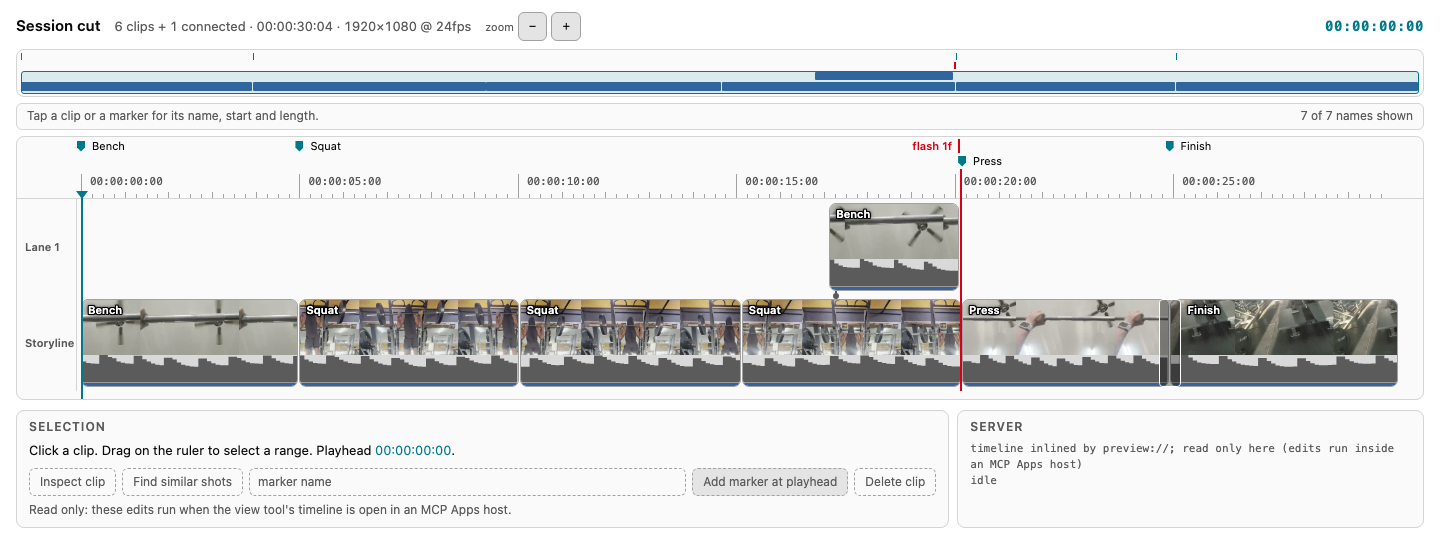
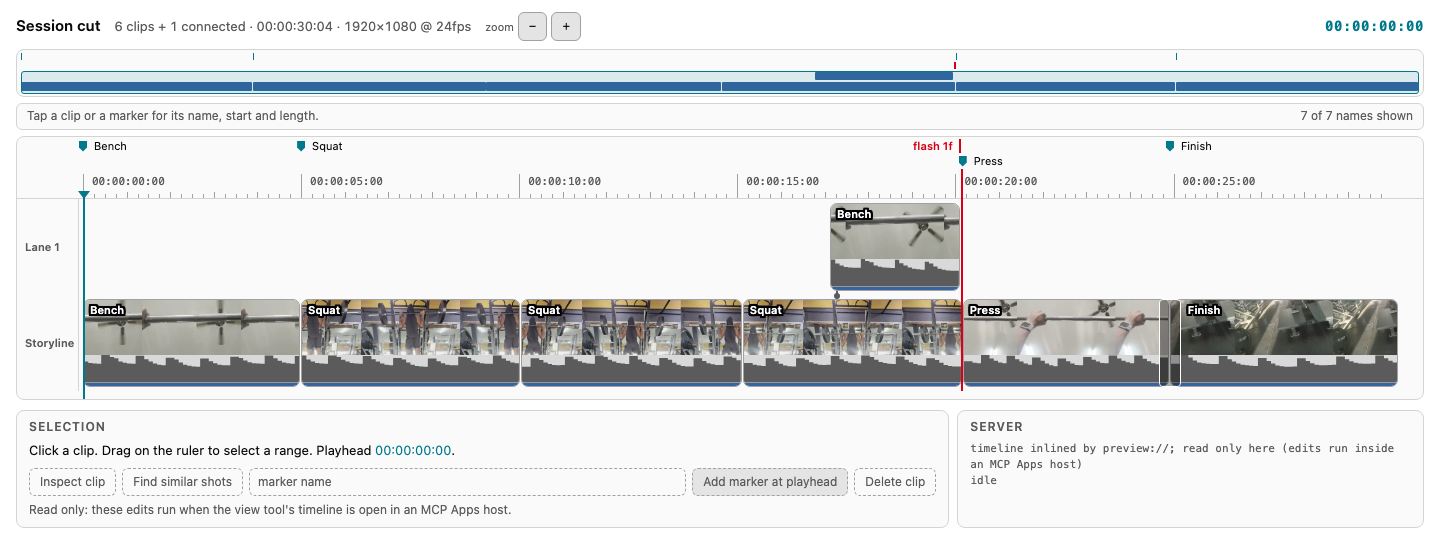
docs: 0.34 round 4, frames re-shot with the 2 px outline and the sized gutter; counts
Every frame and the README picture re-shot (byte-identical in the
gauntlet's copy); CHANGELOG's halo, gutter and median numbers, CLAUDE.md's
counts (3048 tests across 106 files) re-measured.

Claude-Session: https://claude.ai/code/session_01Majkfyw52xXpeyZZPHZGD2

diff --git a/CLAUDE.md b/CLAUDE.md
@@ -35,7 +35,7 @@ fcpxml/timeline_app.py — The MCP Apps timeline: a PURE payload builder (every
                       NO name rows, leaders or pills; countNames fills the
                       hint strip), markers named right of their glyph or in
                       a bracketed run (placeMarkers, split at a quarter of
-                      the view), lane tags in a 64 px gutter at >= 1000 px,
+                      the view), lane tags in a gutter (64 px, or its widest tag) at >= 1000 px,
                       stems ending in their dot on the storyline's edge
                       (drawConnections), z: conn -1 < flash 4 < trans 5 <
                       labels 7 < lane tags 8 < playhead 30 in an isolated
@@ -335,7 +335,7 @@ CI runs both on every push to main. If either fails, the commit gets an X on Git
 
 ## Testing
 
-3047 tests across 106 files (measured 2026-11-15 on v0.34.0 after the gatekeeper's round 4, Final Cut Pro 12.4 present: 3039 pass / 8 skip on mcp 2.3.0 and 3036 pass / 11 skip on mcp 1.28.1, both with Pillow and Playwright's Chromium and `FCP_MCP_REQUIRE_BROWSER=1`, ffmpeg 9.0.1; 2751 pass / 14 skip on ffmpeg 6.1.6 via `scripts/test-ffmpeg6.sh`, without Playwright, where `test_app_glance.py`, `test_readme_picture.py`, `test_app_labels.py`, `test_app_motion.py` and `test_hero_assets.py` skip as modules; with `FCP_MCP_INDEX=off` 3015 pass / 32 skip, the skips being tests OF the cache). v0.34.0 adds `test_app_glance.py` (69 test functions, replaces `test_app_directions.py`; CI's `rendered-labels` job runs it): the one look on the three fixtures (gym, music video with three markers on its gap, `demo/fixtures/interview.py`) at 1440/430/390: no visible name under 4 characters, none cut, no two texts overlapping, the median clip >= 44 px, the overview spanning the whole cut, no sideways page, cyan text only on the record time, the track area >= 35% of the page at 1440, clip heights by lane type, the middle ellipsis, the tap sheet, the snap, role stripes in Final Cut's colours, waveforms, the four marker glyphs, the flash, theme tokens for preview:// (OS) and for the app in a stand-in host (host theme, OS, change notification), the payload drawn from `structuredContent`; and (round 2) every ruler time 2 px clear of every tick, every visible marker glyph with its whole name, no band of one flat colour across a picture clip's body; and (round 3) the whole cut at open, names on rows for 80% of wide storyline clips, lanes that collapse, nothing painted inside a text box (hit-tested, taps included), no name across the flash line, Final Cut transitions and titles, connected clips 6 px or wider, the overview's contrast and glyphs, the header whole, markers named or clustered with the file's count, the waveform in its own band, the tap strip above the ruler; and (round 4, the Fable ruling, which replaced the median, the ellipsis, the name rows and the hit-test gates) names inside their clip whole or absent with the hint strip's count, the zoom rule at open, the overview as a minimap, the playhead on top, every waveform column on one -60..0 dBFS scale and the gym's sound with dynamics, marker runs bracketed only where names cannot fit and never over a quarter of the view, the flash line under the marker rows, cyan record times and 00:00:00:00 kept on a tap, stems ending on the storyline's edge, lane tags at 1440, and a collision check over every drawn primitive (0 now, 116 on the round-3 build's nine frames); each gate broken once inside the module (a `*_red` test per gate). `test_readme_picture.py` holds the README builder's refusals (scripts/readme_timeline.py). `test_view_budget.py` (8, no browser): through the registered tools/call handler on the installed SDK, the five-clip text under 2,000 characters with no picture, the interview payload under 700,000 bytes, peaks cached in the index and identical with it off; red on the 0.33 reply, a full-rate waveform, a reader that skips the index. `test_diagnose_order.py` (4): the Issues table FAIL/WARN/INFO and a lane clip's flash at its timeline_start, each with its mutation. `test_proofs.py` gained the silence-label-inside-its-span and flash-badge gates with mutations; `test_palette.py` runs `scripts/fcp_role_colours.m` against Final Cut when it and clang are installed. v0.33.0 adds `test_media_clock.py` (62, #45): the issue's repro; every writer read back through the parser to the same FILE frames with and without a tmcd track at 30, 29.97 NDF/DF and 23.976; a clock off the sequence grid never snapped before the file; Sony/Matroska timecode found and not used; missing media and no ffprobe; a Chinese folder with a space, DTD-valid; the validator's Media clock FAIL/WARN/PASS/not-judged/not-measured rows, one probe per file; `src` on insert/connected clips; exact source starts; drop-frame labels both ways. 41 mutations, each red (2026-11-14; script kept outside the repo); suite 2692 pass / 9 skip on ffmpeg 9.0.1 and on 6.1.6, 2668 / 33 with FCP_MCP_INDEX=off, in a venv without Playwright or Pillow. v0.32.0 adds `test_proofs.py`: every gate reads the OUTPUT and compares it with a truth computed in the test (its own timecode function, the PARSED timeline): each sheet cell's record and source timecodes read back off the PNG (the phone page also at its delivered 390 px), both burn lines of all 724 frames of the burned gym proxy against the clips on screen ("Bench (L1) over Squat"), every check thumbnail against the ruler drawn under it, every ruler tick to 1 px on every row it claims, the removed frames and the cut pair, the cut's out- and in-point each read through its own band's drawn ruler, no label within 8 px of a line or mark, the padding read from the edit, every range in-out with its length, the dB waveform and its labelled scale, one clip count across three outputs, the picture-flash at 00:00:20:03, the 14 px / 1568 px / 12-cell rule, burn-before-verify failing the lane instrument on a bottom-left quarter PiP, a frame decoded by index (testsrc2) to prove the shown frame is the named one, image blocks present and under the cap through `server.call_tool` on both SDKs, no collisions, no truncation, red only for failure; it builds `demo/fixtures/gym_session.py` once per module with the journal and index off and restored after. `test_visual.py` was rewritten for the banded check and `test_preview.py` for the inlined page; `test_app_labels.py` holds the page's fit, every clip named (inside or on its rail) and the read-only controls (the clip numbers and the key went with the 0.32 look in 0.34). conftest.py stubs the cmux preview hook for every test. 158 mutations, each red (2026-11-13; 40 of them also on mcp 2.3.0); the round-4 script and logs are kept outside the repo with the gauntlet. `test_hero_assets.py` decodes the hero MP4's first frame with ffmpeg and requires the finished cut; since round 6 it also holds the composed stage (no hold over 1.5 s, a seamless loop, no dissolve between held pictures, the recorder's own coverage and type numbers), and since round 7 the read time (every caption's hold, read off the MP4's caption band), the GIF's one-frame holds, and `hero-run.json` (the close-up and the unedited recording are the same run: same notes, results and thumbnails, each file's sha256 recorded); `demo/hero/record.js` refuses the per-frame gates itself (doubled, dropped or clipped names, stretched thumbnails, coverage, measured type, caption holds, the split's frame count, the push range, a clip count that jumps without motion), and `build.py`'s `tie()` refuses two recordings that showed different runs. `test_front_door.py` pins the frozen social card and logo by sha256: changing one is a deliberate act that updates the pin. Mutation runs go with PYTHONDONTWRITEBYTECODE=1: a same-length mutation restored within the same second leaves a .pyc of the mutated source that Python still trusts. `test_app_labels.py` renders the app and the preview:// page in headless Chromium and fails on any cut or needlessly hidden label; CI's `rendered-labels` job installs the browser and sets `FCP_MCP_REQUIRE_BROWSER=1` so it cannot skip there. `test_sequence_duration.py` holds the ripple-shortens-the-sequence fix. v0.31.0 adds `test_palette.py` (every colour in a surface file is a token of `fcpxml/palette.py`, tokens are grey/cyan/red, text pairs at 4.5:1 in both modes, the rendered app and preview:// carry only tokens, three README badges on the tokens), `test_schema_budget.py` (the advertised schema, 30,714 characters, may not grow; a shrink of more than 500 asks for the budget to be lowered), `test_front_door.py` (the old tagline, name, Omni model and card version at zero outside CHANGELOG.md; one display name), `test_pypi_readme.py` (the publish-time rewrite and the check of the BUILT description), the price table's sources and 45-day age in `test_gen.py`, and `view`'s summary agreeing with `diagnose` in `test_view_group.py`; each guard was broken in the real code once and seen red (2026-11-12). v0.30.0 adds `test_preview_audio.py`: loudness measured at chosen instants of the rendered file (each clip heard at its time, a gap silent, an audio lane from its offset, -96 dB silent, a `<video>` element silent) with a mutation check that a clip moved to 0s reads as silence where it belongs. Run `scripts/test-ffmpeg6.sh` before pushing anything that touches the filtergraph: ffmpeg 6.1 is CI's build and it has already behaved differently from 9.x once. v0.29.0 adds `test_asset_clock.py`: one 8s clip written with and without a 01:00:00:00 timecode track must give the same answer from silence detect/remove, scene detect/split, transcript edits, find_shots, find_to_timeline (in-points written on the asset clock), the view payload and gen's frame; mutation-checked (9 fail with the origin ignored). v0.28.0 adds `test_preview_truth.py`: John Palchak's three preview_render cases rebuilt in Final Cut's own shapes through the real parser and ffmpeg (a transition longer than its neighbour, a PNG still alone on the spine, lanes on a trimmed parent and on a 3600s gap), plus timecoded media, a mid-timeline gap, a clip past the end of its file, an audio-only spine clip, a missing head handle, a transformed PiP, mixed clip shapes (the "Nothing was written" error, which FAILS on 0.27.2), the lane instrument run against a render without the lane, an empty render refused, drift past a frame unverified, and the fallback ladder. Each guard was mutation-checked (2026-11-02). `test_filtergraph.py` now asserts the handle model (xfade at the transition's own start, no change to total) instead of the old overlap. v0.27.1 adds `test_live_bundle_push.py` (a `.fcpxmld` push carries its library location in the copied bundle's `Info.fcpxml` with sidecars intact, the autopush shape gets a temp copy, bundle verification reads `Info.fcpxml`, the read-back refusal and the blocked-Apple-event message, each mutation-checked). v0.27.0 adds `test_effect_registry.py` (every transition uid read against Final Cut's own `Filters.bundle` plugin list when the app is installed, with a mutation check that a fabricated uid fails it) and `test_fcp_import_refusals.py` (the #31-#34 repros verbatim: handle refusals that write nothing, the validator's handle check including an off-centre transition, rough-cut transitions DTD-valid and skipped-and-reported without media, assets copied whole with their format, anchored offsets on the parent's clock read back through the parser). v0.26.0 adds `test_timeline_app.py` (the `ui://` resource's MIME type through the real handler on both SDKs, `_meta.ui.resourceUri` on the wire, the payload round-tripping both fixtures as Fractions, marker clocks, word clipping, thumbnail bounds, no external URLs in the shell), `test_view_group.py`, `test_gen.py` (prices, the gate and its refusals, the key guards with mutation checks, both adapters against a fake transport, the probe on synthesized media, the insert on a DTD-valid fixture validated with xmllint when the DTD is present), `test_gen_group.py` (end to end with a fake provider: journal rows, redaction with its mutation check, sandboxed writes) and `test_project_guard.py` (mismatch refuses before the review gate, the sha256 footer, `analyze_timeline` and `history` report it, mutation check). v0.24.0 adds `test_gap_reporting.py` (the reporting tools and the preview on a gap-based edit, each with a spine-based control, plus the sub-frame silence floor). v0.23.0 adds `test_gap_multicam.py` (issue #23: mc-clip/caption under a gap spine, `<media>` angle resolution via `mc-source`, timeline_start against the gap's local clock, the `media_clips()` view, and that `detect_media_silence`/`detect_scenes` open the angle files). v0.20.0 adds transition and lane coverage to `test_filtergraph.py` (xfade placement, the unplaceable/missing/occupied/shortened reports, the crossfade-shifted overlay window, lane stacking order) and to `test_render.py` (real ffmpeg accepts both chains; the overlaid frame is compared against the same frame of a spine-only render, so a graph that composites nothing fails). v0.19.0 adds `test_journal.py` + `test_journal_wiring.py` (hash-checked undo, never-deletes, one ledger per folder), `test_review_gate.py`, `test_organize.py` + `test_organize_group.py` (DTD order of inserted `<keyword>`/`<rating>`, organize_auto never computes), `test_diversity_constraint.py` (with its mutation check), `test_find.py`, `test_vlm.py` (fake `mlx_vlm` records the env at import; sockets patched to raise) and `test_find_group.py` (never transcribes, never downloads, live captions stored once). v0.18.0 adds `test_index.py` (schema, invalidation on a touched source, corrupt-file rebuild, dir mode 700), `test_index_wiring.py` (second call skips ffmpeg/whisper; index off hits them every time), `test_index_group.py`, `test_progress.py` (both SDKs), `test_scenes.py` + `test_scenes_group.py` (synthesised colour-bar clips; real PySceneDetect when installed), `test_transcript_pack.py` + `test_transcript_pack_handler.py`, `test_transcribe_scribe.py` (urlopen patched throughout; the key-leak guard is mutation-checked), and `test_version.py`. Beyond the pre-existing suites, v0.17.0 added: `test_filtergraph.py` (Timeline -> ffmpeg graph, exact Fractions at NTSC rates, the Clip/.start vs ConnectedClip/.offset distinction, transition substitution reporting), `test_render.py` (proxy render plus the artifact duration read-back and its mutation check), `test_visual.py` (filmstrip+waveform from source media, silent-source fallback, and the mutation check that caught the invisible white-on-white waveform), `test_watchfolder.py` (export detection, content digesting, bundle handling), `test_bridges.py` (loopback-only probing, session caching, describe() honesty), `test_preview_group.py` and `test_watch_group.py` (MCP wiring, UNVERIFIED labelling), `test_edl_import.py` (the real video-use schema, round-tripped against the literal from their own test file), `test_autopush.py`, and `test_tool_seam.py` (the tools/ registry, the merge guard, and the server binding). Tests use `examples/sample.fcpxml` and `examples/music-video.fcpxml` as fixture data plus inline XML and synthesised ffmpeg media. Tests create temp files and clean up after.
+3048 tests across 106 files (measured 2026-11-15 on v0.34.0 after the gatekeeper's round 4, Final Cut Pro 12.4 present: 3040 pass / 8 skip on mcp 2.3.0 and 3037 pass / 11 skip on mcp 1.28.1, both with Pillow and Playwright's Chromium and `FCP_MCP_REQUIRE_BROWSER=1`, ffmpeg 9.0.1; 2751 pass / 14 skip on ffmpeg 6.1.6 via `scripts/test-ffmpeg6.sh`, without Playwright, where `test_app_glance.py`, `test_readme_picture.py`, `test_app_labels.py`, `test_app_motion.py` and `test_hero_assets.py` skip as modules; with `FCP_MCP_INDEX=off` 3016 pass / 32 skip, the skips being tests OF the cache). v0.34.0 adds `test_app_glance.py` (69 test functions, replaces `test_app_directions.py`; CI's `rendered-labels` job runs it): the one look on the three fixtures (gym, music video with three markers on its gap, `demo/fixtures/interview.py`) at 1440/430/390: no visible name under 4 characters, none cut, no two texts overlapping, the median clip >= 44 px, the overview spanning the whole cut, no sideways page, cyan text only on the record time, the track area >= 35% of the page at 1440, clip heights by lane type, the middle ellipsis, the tap sheet, the snap, role stripes in Final Cut's colours, waveforms, the four marker glyphs, the flash, theme tokens for preview:// (OS) and for the app in a stand-in host (host theme, OS, change notification), the payload drawn from `structuredContent`; and (round 2) every ruler time 2 px clear of every tick, every visible marker glyph with its whole name, no band of one flat colour across a picture clip's body; and (round 3) the whole cut at open, names on rows for 80% of wide storyline clips, lanes that collapse, nothing painted inside a text box (hit-tested, taps included), no name across the flash line, Final Cut transitions and titles, connected clips 6 px or wider, the overview's contrast and glyphs, the header whole, markers named or clustered with the file's count, the waveform in its own band, the tap strip above the ruler; and (round 4, the Fable ruling, which replaced the median, the ellipsis, the name rows and the hit-test gates) names inside their clip whole or absent with the hint strip's count, the zoom rule at open, the overview as a minimap, the playhead on top, every waveform column on one -60..0 dBFS scale and the gym's sound with dynamics, marker runs bracketed only where names cannot fit and never over a quarter of the view, the flash line under the marker rows, cyan record times and 00:00:00:00 kept on a tap, stems ending on the storyline's edge, lane tags at 1440, and a collision check over every drawn primitive (0 now, 116 on the round-3 build's nine frames); each gate broken once inside the module (a `*_red` test per gate). `test_readme_picture.py` holds the README builder's refusals (scripts/readme_timeline.py). `test_view_budget.py` (8, no browser): through the registered tools/call handler on the installed SDK, the five-clip text under 2,000 characters with no picture, the interview payload under 700,000 bytes, peaks cached in the index and identical with it off; red on the 0.33 reply, a full-rate waveform, a reader that skips the index. `test_diagnose_order.py` (4): the Issues table FAIL/WARN/INFO and a lane clip's flash at its timeline_start, each with its mutation. `test_proofs.py` gained the silence-label-inside-its-span and flash-badge gates with mutations; `test_palette.py` runs `scripts/fcp_role_colours.m` against Final Cut when it and clang are installed. v0.33.0 adds `test_media_clock.py` (62, #45): the issue's repro; every writer read back through the parser to the same FILE frames with and without a tmcd track at 30, 29.97 NDF/DF and 23.976; a clock off the sequence grid never snapped before the file; Sony/Matroska timecode found and not used; missing media and no ffprobe; a Chinese folder with a space, DTD-valid; the validator's Media clock FAIL/WARN/PASS/not-judged/not-measured rows, one probe per file; `src` on insert/connected clips; exact source starts; drop-frame labels both ways. 41 mutations, each red (2026-11-14; script kept outside the repo); suite 2692 pass / 9 skip on ffmpeg 9.0.1 and on 6.1.6, 2668 / 33 with FCP_MCP_INDEX=off, in a venv without Playwright or Pillow. v0.32.0 adds `test_proofs.py`: every gate reads the OUTPUT and compares it with a truth computed in the test (its own timecode function, the PARSED timeline): each sheet cell's record and source timecodes read back off the PNG (the phone page also at its delivered 390 px), both burn lines of all 724 frames of the burned gym proxy against the clips on screen ("Bench (L1) over Squat"), every check thumbnail against the ruler drawn under it, every ruler tick to 1 px on every row it claims, the removed frames and the cut pair, the cut's out- and in-point each read through its own band's drawn ruler, no label within 8 px of a line or mark, the padding read from the edit, every range in-out with its length, the dB waveform and its labelled scale, one clip count across three outputs, the picture-flash at 00:00:20:03, the 14 px / 1568 px / 12-cell rule, burn-before-verify failing the lane instrument on a bottom-left quarter PiP, a frame decoded by index (testsrc2) to prove the shown frame is the named one, image blocks present and under the cap through `server.call_tool` on both SDKs, no collisions, no truncation, red only for failure; it builds `demo/fixtures/gym_session.py` once per module with the journal and index off and restored after. `test_visual.py` was rewritten for the banded check and `test_preview.py` for the inlined page; `test_app_labels.py` holds the page's fit, every clip named (inside or on its rail) and the read-only controls (the clip numbers and the key went with the 0.32 look in 0.34). conftest.py stubs the cmux preview hook for every test. 158 mutations, each red (2026-11-13; 40 of them also on mcp 2.3.0); the round-4 script and logs are kept outside the repo with the gauntlet. `test_hero_assets.py` decodes the hero MP4's first frame with ffmpeg and requires the finished cut; since round 6 it also holds the composed stage (no hold over 1.5 s, a seamless loop, no dissolve between held pictures, the recorder's own coverage and type numbers), and since round 7 the read time (every caption's hold, read off the MP4's caption band), the GIF's one-frame holds, and `hero-run.json` (the close-up and the unedited recording are the same run: same notes, results and thumbnails, each file's sha256 recorded); `demo/hero/record.js` refuses the per-frame gates itself (doubled, dropped or clipped names, stretched thumbnails, coverage, measured type, caption holds, the split's frame count, the push range, a clip count that jumps without motion), and `build.py`'s `tie()` refuses two recordings that showed different runs. `test_front_door.py` pins the frozen social card and logo by sha256: changing one is a deliberate act that updates the pin. Mutation runs go with PYTHONDONTWRITEBYTECODE=1: a same-length mutation restored within the same second leaves a .pyc of the mutated source that Python still trusts. `test_app_labels.py` renders the app and the preview:// page in headless Chromium and fails on any cut or needlessly hidden label; CI's `rendered-labels` job installs the browser and sets `FCP_MCP_REQUIRE_BROWSER=1` so it cannot skip there. `test_sequence_duration.py` holds the ripple-shortens-the-sequence fix. v0.31.0 adds `test_palette.py` (every colour in a surface file is a token of `fcpxml/palette.py`, tokens are grey/cyan/red, text pairs at 4.5:1 in both modes, the rendered app and preview:// carry only tokens, three README badges on the tokens), `test_schema_budget.py` (the advertised schema, 30,714 characters, may not grow; a shrink of more than 500 asks for the budget to be lowered), `test_front_door.py` (the old tagline, name, Omni model and card version at zero outside CHANGELOG.md; one display name), `test_pypi_readme.py` (the publish-time rewrite and the check of the BUILT description), the price table's sources and 45-day age in `test_gen.py`, and `view`'s summary agreeing with `diagnose` in `test_view_group.py`; each guard was broken in the real code once and seen red (2026-11-12). v0.30.0 adds `test_preview_audio.py`: loudness measured at chosen instants of the rendered file (each clip heard at its time, a gap silent, an audio lane from its offset, -96 dB silent, a `<video>` element silent) with a mutation check that a clip moved to 0s reads as silence where it belongs. Run `scripts/test-ffmpeg6.sh` before pushing anything that touches the filtergraph: ffmpeg 6.1 is CI's build and it has already behaved differently from 9.x once. v0.29.0 adds `test_asset_clock.py`: one 8s clip written with and without a 01:00:00:00 timecode track must give the same answer from silence detect/remove, scene detect/split, transcript edits, find_shots, find_to_timeline (in-points written on the asset clock), the view payload and gen's frame; mutation-checked (9 fail with the origin ignored). v0.28.0 adds `test_preview_truth.py`: John Palchak's three preview_render cases rebuilt in Final Cut's own shapes through the real parser and ffmpeg (a transition longer than its neighbour, a PNG still alone on the spine, lanes on a trimmed parent and on a 3600s gap), plus timecoded media, a mid-timeline gap, a clip past the end of its file, an audio-only spine clip, a missing head handle, a transformed PiP, mixed clip shapes (the "Nothing was written" error, which FAILS on 0.27.2), the lane instrument run against a render without the lane, an empty render refused, drift past a frame unverified, and the fallback ladder. Each guard was mutation-checked (2026-11-02). `test_filtergraph.py` now asserts the handle model (xfade at the transition's own start, no change to total) instead of the old overlap. v0.27.1 adds `test_live_bundle_push.py` (a `.fcpxmld` push carries its library location in the copied bundle's `Info.fcpxml` with sidecars intact, the autopush shape gets a temp copy, bundle verification reads `Info.fcpxml`, the read-back refusal and the blocked-Apple-event message, each mutation-checked). v0.27.0 adds `test_effect_registry.py` (every transition uid read against Final Cut's own `Filters.bundle` plugin list when the app is installed, with a mutation check that a fabricated uid fails it) and `test_fcp_import_refusals.py` (the #31-#34 repros verbatim: handle refusals that write nothing, the validator's handle check including an off-centre transition, rough-cut transitions DTD-valid and skipped-and-reported without media, assets copied whole with their format, anchored offsets on the parent's clock read back through the parser). v0.26.0 adds `test_timeline_app.py` (the `ui://` resource's MIME type through the real handler on both SDKs, `_meta.ui.resourceUri` on the wire, the payload round-tripping both fixtures as Fractions, marker clocks, word clipping, thumbnail bounds, no external URLs in the shell), `test_view_group.py`, `test_gen.py` (prices, the gate and its refusals, the key guards with mutation checks, both adapters against a fake transport, the probe on synthesized media, the insert on a DTD-valid fixture validated with xmllint when the DTD is present), `test_gen_group.py` (end to end with a fake provider: journal rows, redaction with its mutation check, sandboxed writes) and `test_project_guard.py` (mismatch refuses before the review gate, the sha256 footer, `analyze_timeline` and `history` report it, mutation check). v0.24.0 adds `test_gap_reporting.py` (the reporting tools and the preview on a gap-based edit, each with a spine-based control, plus the sub-frame silence floor). v0.23.0 adds `test_gap_multicam.py` (issue #23: mc-clip/caption under a gap spine, `<media>` angle resolution via `mc-source`, timeline_start against the gap's local clock, the `media_clips()` view, and that `detect_media_silence`/`detect_scenes` open the angle files). v0.20.0 adds transition and lane coverage to `test_filtergraph.py` (xfade placement, the unplaceable/missing/occupied/shortened reports, the crossfade-shifted overlay window, lane stacking order) and to `test_render.py` (real ffmpeg accepts both chains; the overlaid frame is compared against the same frame of a spine-only render, so a graph that composites nothing fails). v0.19.0 adds `test_journal.py` + `test_journal_wiring.py` (hash-checked undo, never-deletes, one ledger per folder), `test_review_gate.py`, `test_organize.py` + `test_organize_group.py` (DTD order of inserted `<keyword>`/`<rating>`, organize_auto never computes), `test_diversity_constraint.py` (with its mutation check), `test_find.py`, `test_vlm.py` (fake `mlx_vlm` records the env at import; sockets patched to raise) and `test_find_group.py` (never transcribes, never downloads, live captions stored once). v0.18.0 adds `test_index.py` (schema, invalidation on a touched source, corrupt-file rebuild, dir mode 700), `test_index_wiring.py` (second call skips ffmpeg/whisper; index off hits them every time), `test_index_group.py`, `test_progress.py` (both SDKs), `test_scenes.py` + `test_scenes_group.py` (synthesised colour-bar clips; real PySceneDetect when installed), `test_transcript_pack.py` + `test_transcript_pack_handler.py`, `test_transcribe_scribe.py` (urlopen patched throughout; the key-leak guard is mutation-checked), and `test_version.py`. Beyond the pre-existing suites, v0.17.0 added: `test_filtergraph.py` (Timeline -> ffmpeg graph, exact Fractions at NTSC rates, the Clip/.start vs ConnectedClip/.offset distinction, transition substitution reporting), `test_render.py` (proxy render plus the artifact duration read-back and its mutation check), `test_visual.py` (filmstrip+waveform from source media, silent-source fallback, and the mutation check that caught the invisible white-on-white waveform), `test_watchfolder.py` (export detection, content digesting, bundle handling), `test_bridges.py` (loopback-only probing, session caching, describe() honesty), `test_preview_group.py` and `test_watch_group.py` (MCP wiring, UNVERIFIED labelling), `test_edl_import.py` (the real video-use schema, round-tripped against the literal from their own test file), `test_autopush.py`, and `test_tool_seam.py` (the tools/ registry, the merge guard, and the server binding). Tests use `examples/sample.fcpxml` and `examples/music-video.fcpxml` as fixture data plus inline XML and synthesised ffmpeg media. Tests create temp files and clean up after.
 
 ## Releasing — the tag is not the release
 

diff --git a/CHANGELOG.md b/CHANGELOG.md
@@ -39,8 +39,8 @@ lane clip) and what the parser READS from Final Cut's own files (below).
   0-17.6 s), else the whole cut; and when the median picture clip would then
   be under 16 px it zooms in to a 64 px median from the region's start and
   scrolls (the interview at 430 and 390). Measured median picture clip at
-  open (1440 / 430 / 390): gym 219.3 / 58.5 / 51.8 px, music video 296.2 /
-  79.3 / 70.2, interview 29.4 / 63.0 / 63.0. Zoom + and - zoom from there.
+  open (1440 / 430 / 390): gym 218.9 / 58.5 / 51.8 px, music video 295.7 /
+  79.3 / 70.2, interview 29.3 / 63.0 / 63.0. Zoom + and - zoom from there.
   The page never scrolls sideways. A connected lane with nothing in the part
   in view collapses to a thin rule. (Round 3 opened on the whole cut at
   every width; the first build on a 44 px median clip.)
@@ -58,7 +58,7 @@ lane clip) and what the parser READS from Final Cut's own files (below).
   over its head or tail), or not at all: no name rows, no leaders, no scrim
   pills, never an ellipsis (round 3 hung names on rows with leaders, which
   the critics could not match to their clips). Over a picture the name is
-  white with a 1 px black outline and a soft shadow, which reads over a
+  white with a 2 px black outline and a soft shadow, which reads over a
   white frame. The hint strip counts the names the part in view shows:
   "7 of 7 names shown" (gym at 1440), "2 of 58 names shown · tap or zoom"
   (interview at 1440), "4 of 58" (interview at 390), "8 of 8" and "5 of 8"
@@ -69,7 +69,8 @@ lane clip) and what the parser READS from Final Cut's own files (below).
   cyan there (round 4), a length or a source time is not. The playhead
   snaps to a cut within 8 px.
 - **Lane tags (round 4).** On a desktop (a track 1,000 px or wider) every lane
-  carries a grey tag in a 64 px gutter, sticky as the tracks scroll:
+  carries a grey tag in a gutter 64 px wide (wider if its widest tag needs
+  it in the font drawn: CI's Linux font does), sticky as the tracks scroll:
   "Storyline", "Lane 1", "Lane −1". A phone keeps its 16 px gutter.
 - **The playhead is on top of everything (round 4).** Its head sits in the
   ruler's tick band under the times, so it never cuts a time and
@@ -301,7 +302,8 @@ lane clip) and what the parser READS from Final Cut's own files (below).
   stems); transitions with no glyph unless their whole name fits (red with
   the bow-tie always drawn, with an opaque slab); titles' text 4.5:1 on the
   Titles colour in both themes (red in the mute grey); lane tags at 1440
-  only, grey, whole in the gutter (red on a phone, in cyan, missing); and a
+  only, grey, whole in the gutter, which grows for a wider tag (red on a
+  phone, at a fixed 64 px with a wider tag, in cyan, missing); and a
   collision check over every drawn primitive (text runs line by line,
   marker glyphs, brackets and their ticks, frame and time ticks, the flash
   and its flag, a transition's overlay, each stem's visible parts and its
@@ -311,10 +313,11 @@ lane clip) and what the parser READS from Final Cut's own files (below).
   check said 0 (red with a name row and leader put back, and with names
   given no inset). `tests/test_palette.py`: one set of role colours in both
   themes (red with round 3's light set); a name over a picture has its
-  outline on all eight sides (red with a soft shadow only).
+  outline out to 2 px on every side (red with a soft shadow only).
   `tests/test_app_labels.py`: over a pure white frame, 95% or more of the
-  pixels just outside a name's glyphs read 4.5:1 against it (97% measured;
-  red without the halo).
+  pixels just outside a name's glyphs read 4.5:1 against it (100% on
+  macOS with the 2 px outline; a 1 px outline read 97% there and 76% on
+  CI's Linux; red without the halo).
 - `tests/test_app_glance.py` (0.34, replaces `tests/test_app_directions.py`;
   CI's `rendered-labels` job): the three fixtures (the 32 s gym cut, the
   164 s music video with three markers on its gap, the 18-minute interview)
